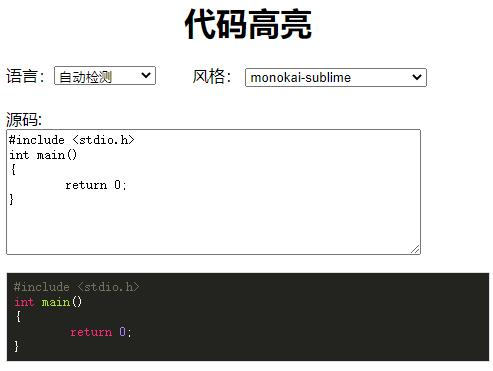
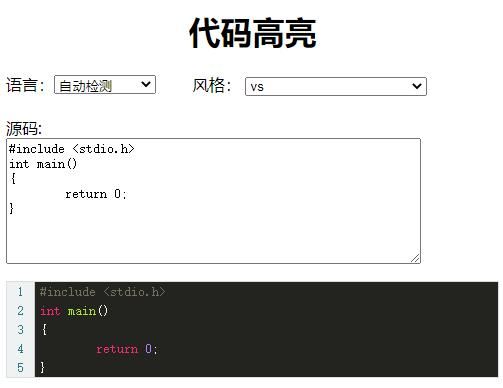
支持显示行号

diff --git a/index.html b/index.html
@@ -2,14 +2,28 @@
 <html lang="en">
 
 <head>
-  <meta charset="utf-8">
-  <title>代码高亮</title>
-  <link id="code_css" rel="stylesheet" href="highlight/styles/monokai-sublime.css">
-  <script src="highlight/highlight.pack.js"></script>
-  <script src="https://ajax.aspnetcdn.com/ajax/jQuery/jquery-3.5.0.min.js"></script>
-  <style>
-      pre{ border:1px solid #ddd}
-  </style>
+    <meta charset="utf-8">
+    <title>代码高亮</title>
+    <link id="code_css" rel="stylesheet" href="highlight/styles/monokai-sublime.css">
+    <script src="highlight/highlight.pack.js"></script>
+    <script src="https://ajax.aspnetcdn.com/ajax/jQuery/jquery-3.5.0.min.js"></script>
+    <script src="https://cdnjs.cloudflare.com/ajax/libs/highlightjs-line-numbers.js/2.5.0/highlightjs-line-numbers.min.js"></script>
+    <style>
+        pre{ border:1px solid #ddd}
+    </style>
+    <style>
+        /*行号相关样式*/
+        .hljs { padding: 0;}
+        .hljs-ln td { padding: 2px 10px;}
+        td.hljs-ln-numbers {
+            text-align: center;
+            color: #2F7689;
+            background-color: #EFF2F3;
+            border-right: 1px solid #CCC;
+            vertical-align: top;
+        }
+        td.hljs-ln-code {padding-left: 5px;}
+    </style>
 </head>
 <body>
 	<h1 align="center">代码高亮</h1>
@@ -126,9 +140,7 @@ int main()
 </textarea>
 	</div>
 	<div>
-	<pre class='hljs' border="1">
-<code id="preview"/>
-	</pre>
+<pre class='hljs' border="1"><code id="preview"></code></pre>
 	</div>
 
 	<script>
@@ -175,6 +187,11 @@ int main()
 			}
 			$("#preview").html(html);
 			$("#code_css").attr('href', 'highlight/styles/'+$('#output-style').val()+'.css')
+            
+            // 添加行号
+            $('#preview').each(function(i, block) {
+                hljs.lineNumbersBlock(block);
+            });
 		};
 
 	</script>

diff --git a/README.md b/README.md
@@ -1,6 +1,20 @@
 # highlight_demo
-使用highlight js 实现代码高亮
+代码高亮、行号显示
 
-下载highlight的js文件 https://highlightjs.org/download/
+# 使用 highlight
+源码 https://github.com/highlightjs/highlight.js
+<br/>下载 https://highlightjs.org/download/
+```
+<script src="highlight/highlight.pack.js"></script>
+<script src="https://ajax.aspnetcdn.com/ajax/jQuery/jquery-3.5.0.min.js"></script>
+<link id="code_css" rel="stylesheet" href="highlight/styles/monokai-sublime.css">
+```
 
+# 使用 highlightjs-line-numbers
+源码 https://github.com/wcoder/highlightjs-line-numbers.js
+<br/>无需下载
+```
+<script src="https://cdnjs.cloudflare.com/ajax/libs/highlightjs-line-numbers.js/2.5.0/highlightjs-line-numbers.min.js"></script>
+```
+<hr/>
 ![效果图](demo.jpg)
